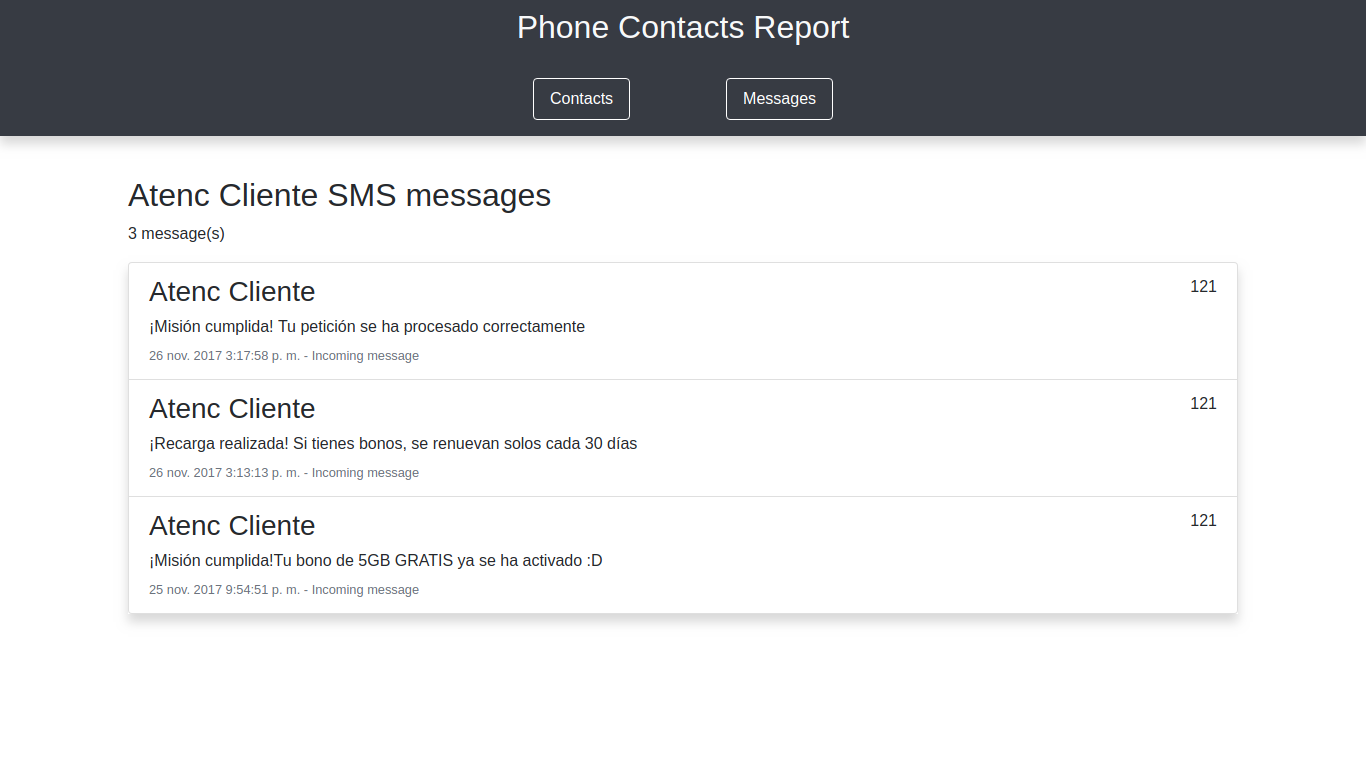
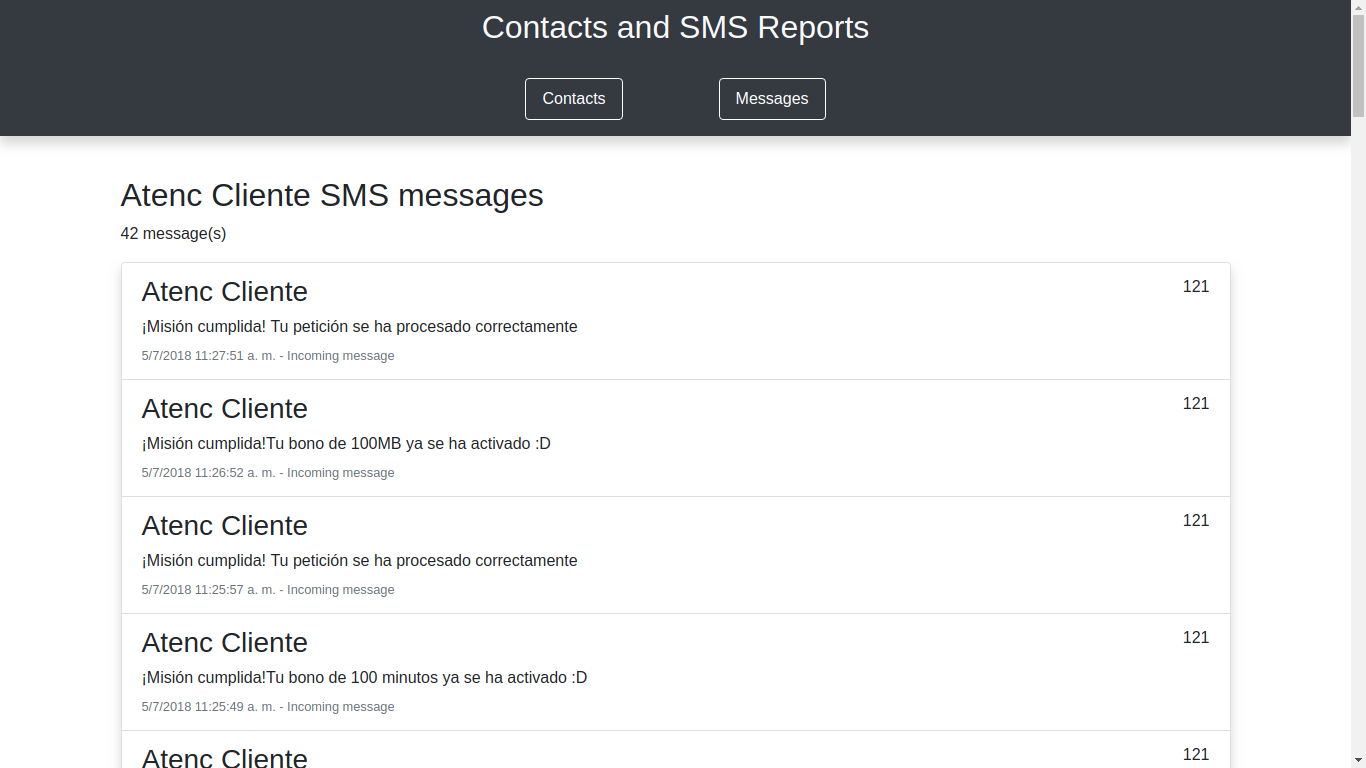
README.md: Actualizadas las caputas de pantalla, el nombre de la aplicación y el nombre del ejecutable.

diff --git a/README.md b/README.md
@@ -28,28 +28,36 @@ Now you can run the application.
 # Running the application (GNU/Linux, MacOS)
 ## GUI mode
 1. Open a terminal and navigate to the root folder.
-2. Execute the command `$ ./phone_contacts_report`.
+2. Execute the command `$ ./contacts_and_sms_reports`.
 
 ![GUI main window](https://github.com/zerosk8/phone-contacts-sms-report/blob/master/documentation/images/gui_main.png)
 
+![GUI message missing input file](https://github.com/zerosk8/phone-contacts-sms-report/blob/master/documentation/images/gui_message_info_missing_input.png)
+
+![GUI message missing output directory](https://github.com/zerosk8/phone-contacts-sms-report/blob/master/documentation/images/gui_message_info_missing_output.png)
+
+![GUI message error](https://github.com/zerosk8/phone-contacts-sms-report/blob/master/documentation/images/gui_message_error.png)
+
+![GUI message success](https://github.com/zerosk8/phone-contacts-sms-report/blob/master/documentation/images/gui_message_success.png)
+
 ## Console mode
 1. Open a terminal and navigate to the root folder.
-2. Execute the command `$ ./phone_contacts_report` and specify:
+2. Execute the command `$ ./contacts_and_sms_reports` and specify:
 * `-c` (`--contacts`) option with the contacts file path.
 * `-s` (`--sms`) option with the SMS file path.
 * `-o` (`--output`) option with a folder path, to generate the report files in this folder.
 
 Examples:
-- `./phone_contacts_report -c ./TestFiles/short_example_contacts_file.vcf -s ./TestFiles/short_example_sms_file.xml -o /home/user/Desktop/`. 
+- `./contacts_and_sms_reports -c ./TestFiles/short_example_contacts_file.vcf -s ./TestFiles/short_example_sms_file.xml -o /home/user/Desktop/`. 
 This will generate web documents with phone contacts and SMS messages in the desktop folder.
 
-- `./phone_contacts_report -c ./TestFiles/short_example_contacts_file.vcf -s ./TestFiles/short_example_sms_file.xml -o /home/user/Desktop/`. 
+- `./contacts_and_sms_reports -c ./TestFiles/short_example_contacts_file.vcf -s ./TestFiles/short_example_sms_file.xml -o /home/user/Desktop/`. 
 This will generate a web document with phone contacts in the desktop folder.
 
-- `./phone_contacts_report -s ./TestFiles/short_example_sms_file.xml -o /home/user/Desktop/`. 
+- `./contacts_and_sms_reports -s ./TestFiles/short_example_sms_file.xml -o /home/user/Desktop/`. 
 This will generate a web document with SMS messages in the desktop folder.
 
-- `./phone_contacts_report -c ./TestFiles/short_example_contacts_file.vcf`. 
+- `./contacts_and_sms_reports -c ./TestFiles/short_example_contacts_file.vcf`. 
 This will generate a web document with phone contacts in the root application folder.
 
 # Result files
